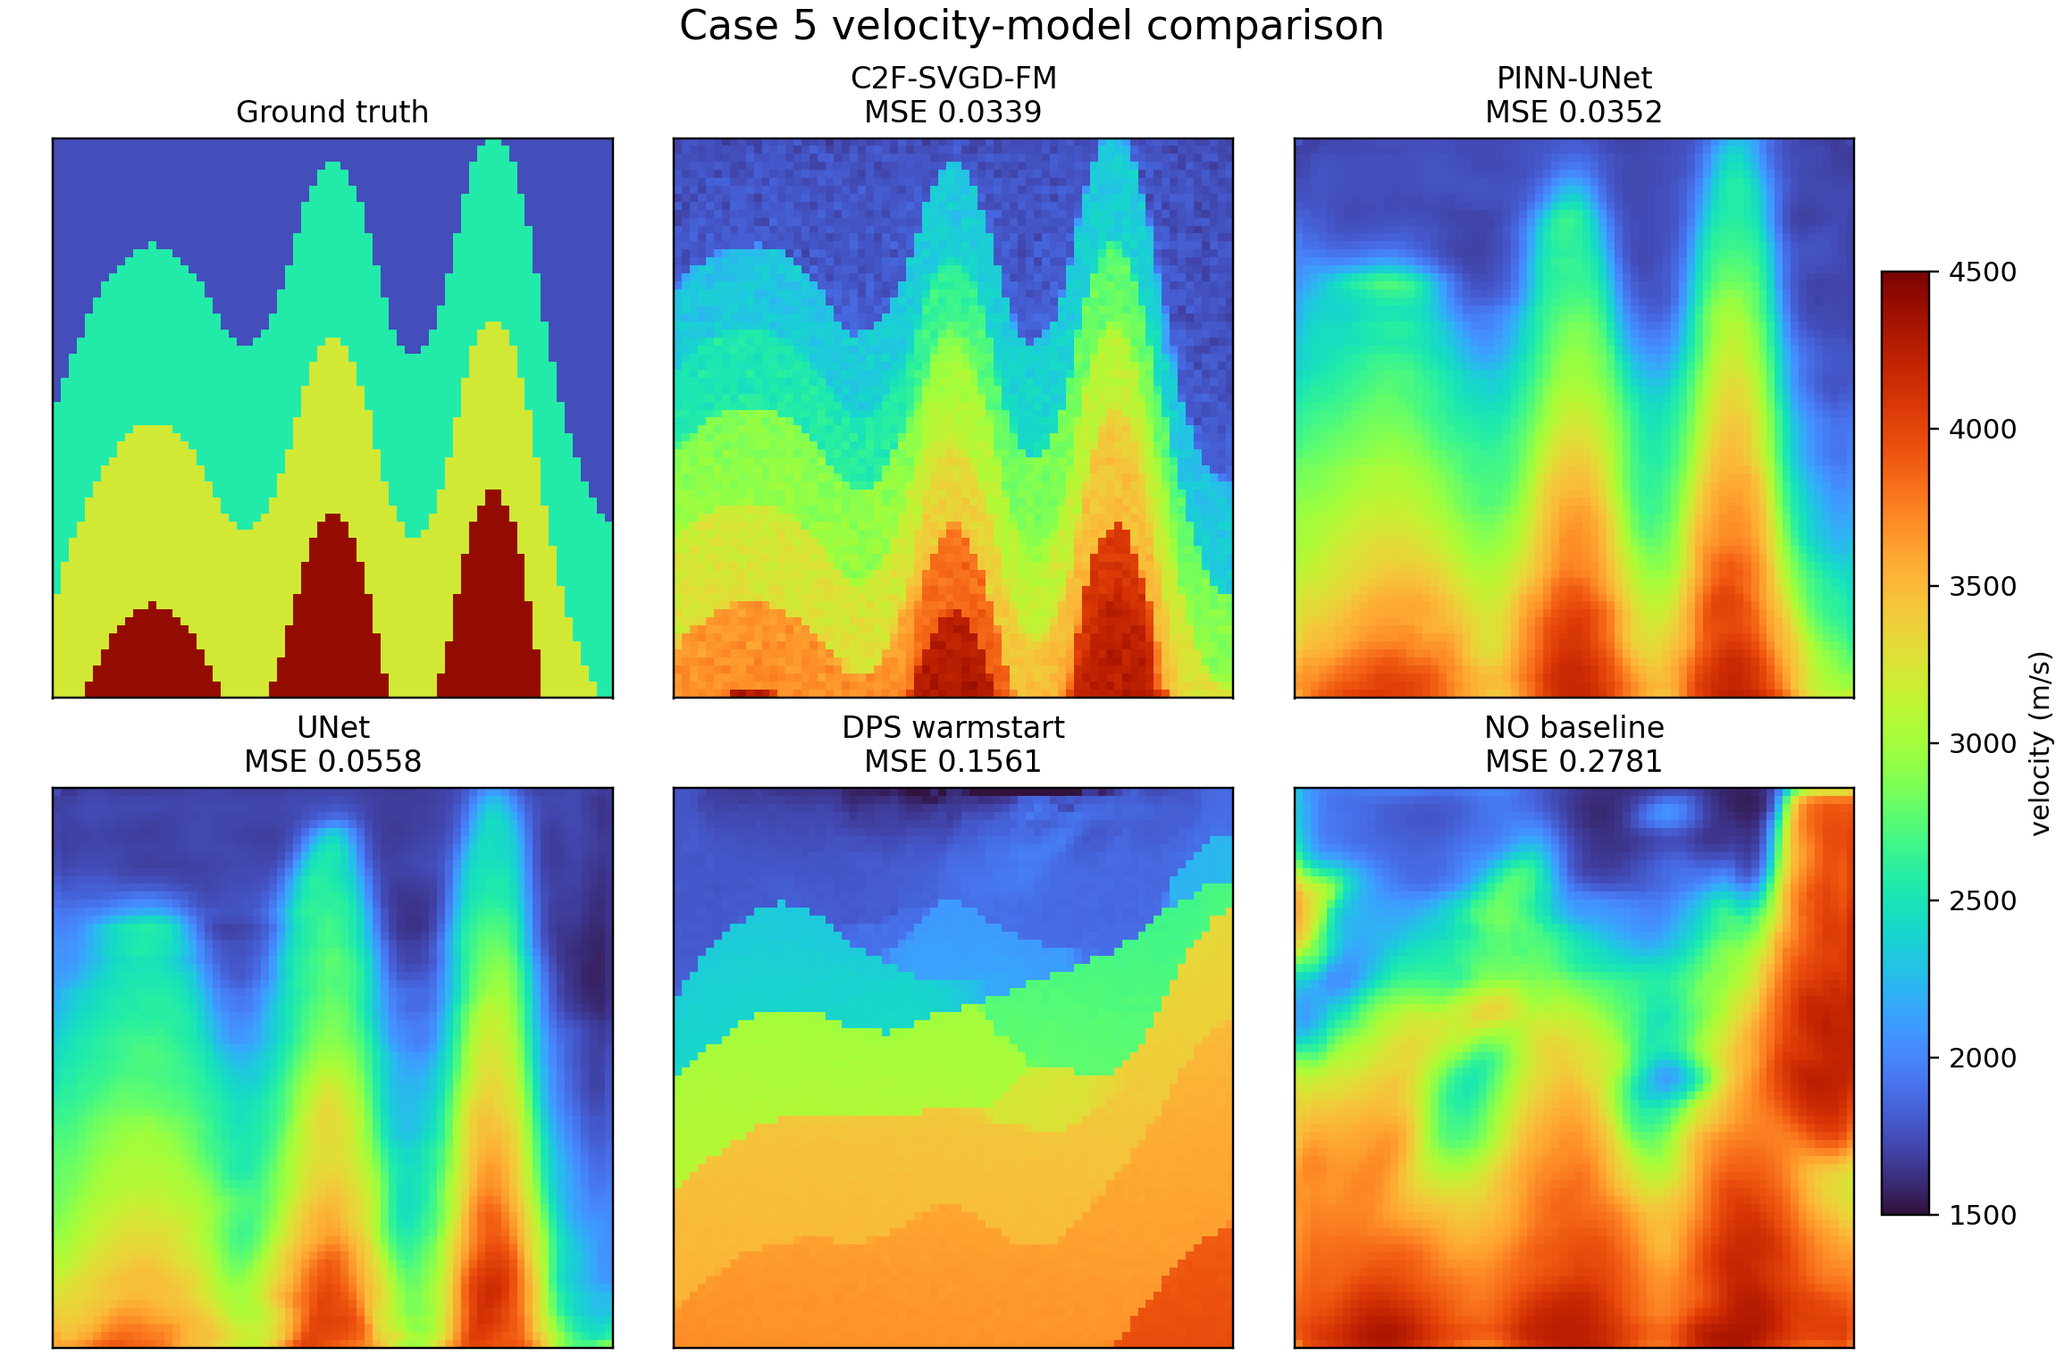
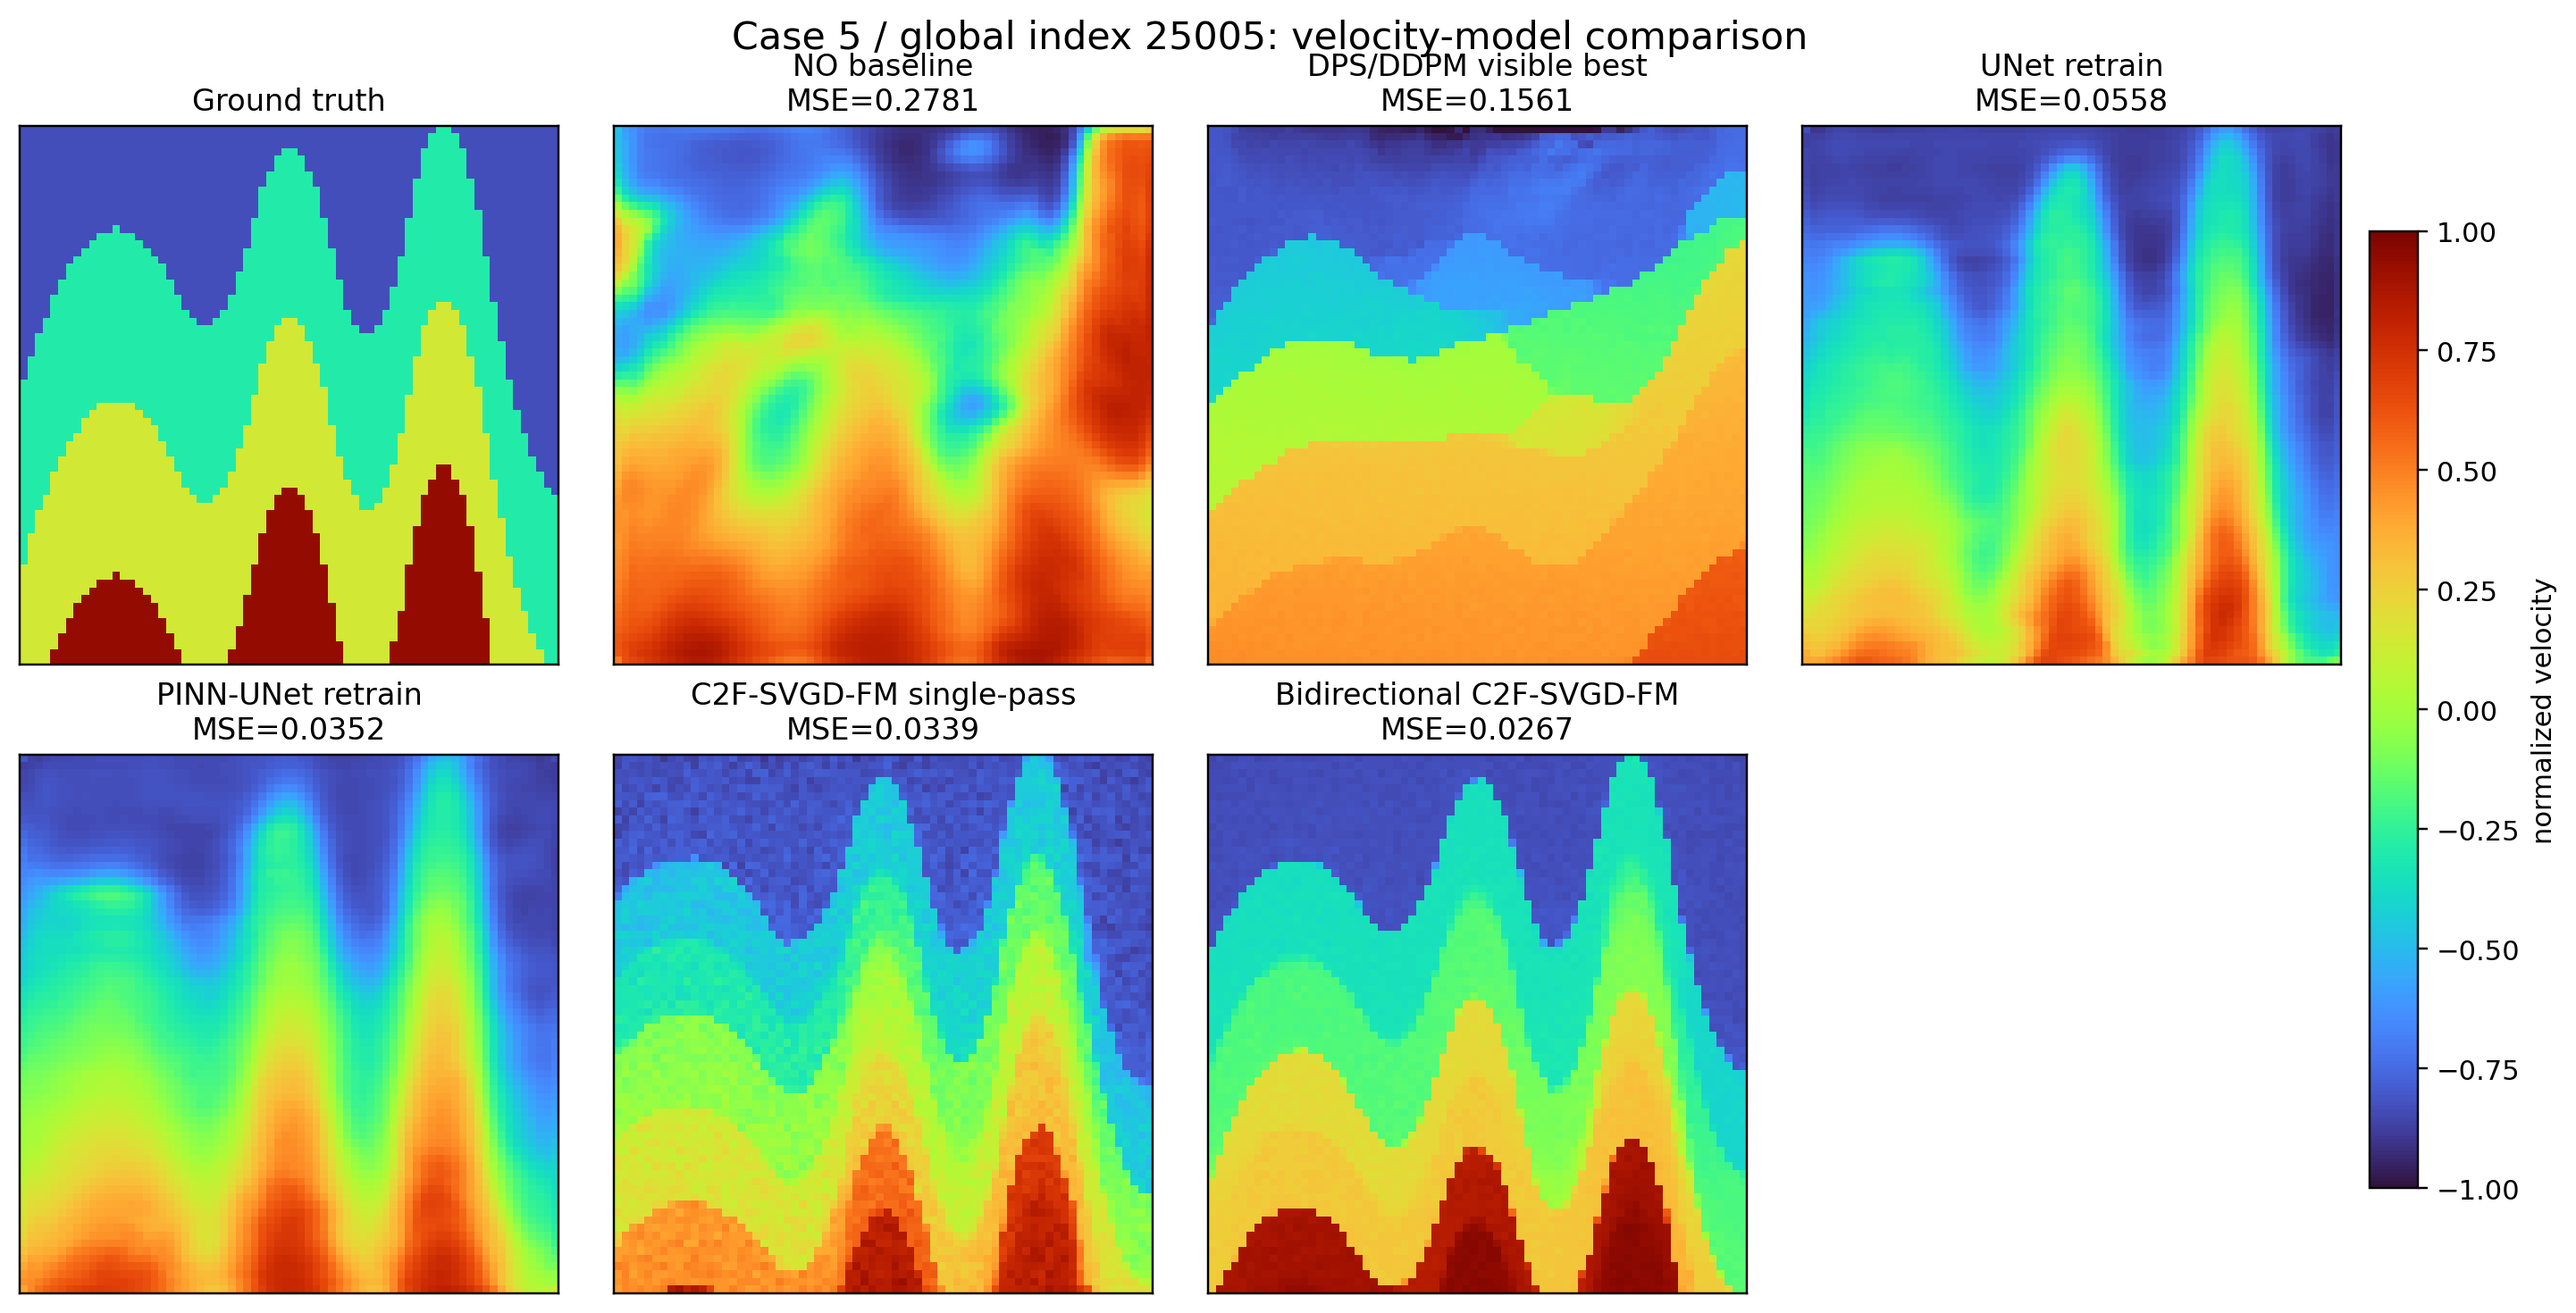
Add bidirectional C2F-SVGD-FM case5 result

diff --git a/scripts/summarize_case5.py b/scripts/summarize_case5.py
@@ -20,21 +20,31 @@ RESULTS = ROOT / "results"
 def main() -> None:
     FIGURES.mkdir(exist_ok=True)
     res = json.loads((RESULTS / "case5_curated_results.json").read_text())
-    labels = ["NO", "DPS\nwarmstart", "FlowMap\ncase-5 best"]
+    labels = [
+        "NO",
+        "DPS\nwarmstart",
+        "UNet",
+        "PINN-UNet",
+        "C2F-SVGD-FM\nsingle-pass",
+        "Bidirectional\nC2F-SVGD-FM",
+    ]
     vals = [
         res["no_mse_from_dps_log"],
         res["dps_best_visible"]["mse"],
+        res["unet_retrain_mse"],
+        res["pinn_unet_retrain_mse"],
+        res["single_pass_c2f_svgd_fm"]["mse"],
         res["main_best"]["mse"],
     ]
-    colors = ["#d65f5f", "#e6a23c", "#2d6cdf"]
+    colors = ["#d65f5f", "#e6a23c", "#8a8f98", "#6d7fb3", "#4b8fe2", "#1f5fbf"]
 
-    fig, ax = plt.subplots(figsize=(6.4, 4.2))
+    fig, ax = plt.subplots(figsize=(9.0, 4.2))
     bars = ax.bar(labels, vals, color=colors, width=0.62)
     ax.set_ylabel("relative MSE")
     ax.set_title("Hard case i=5 / g=25005")
     ax.grid(axis="y", alpha=0.25)
     for bar, val in zip(bars, vals):
-        ax.text(bar.get_x() + bar.get_width() / 2, val + 0.008, f"{val:.4f}", ha="center")
+        ax.text(bar.get_x() + bar.get_width() / 2, val + 0.006, f"{val:.4f}", ha="center")
     ax.set_ylim(0, max(vals) * 1.22)
     fig.tight_layout()
     fig.savefig(FIGURES / "case5_mse_bar.png", dpi=180)

diff --git a/README.md b/README.md
@@ -25,6 +25,14 @@ raw-noise proposal bank
 -> final blind select
 ```
 
+The strongest variant in this repository adds a small **bidirectional re-noising extension** after the single-pass C2F trajectory:
+
+```text
+blind-select clean FlowMap elites
+-> re-noise them back to an informative FlowMap time
+-> resume gated C2F-SVGD-FM assimilation
+```
+
 The learned FlowMap is used as an unconditional prior. The measurement enters only through FWI forward modeling, multiscale seismic scoring, and particle updates. The method does not use Neural Operator or UNet initialization, and it does not train a learned inverse corrector on the observed data.
 
 ## Motivation
@@ -38,13 +46,15 @@ C2F-SVGD-FM keeps the generative-prior advantage while making the inverse update
 1. **Proposal diversity:** start from a raw-noise FlowMap proposal bank and keep multiple basin candidates.
 2. **Coarse-to-fine seismic ranking:** use multiscale observation consistency, not ground-truth velocity, to choose useful particles.
 3. **Particle transport in FlowMap time:** move the same particles along the FlowMap trajectory and update them with differentiable FWI gradients, SVGD diversity, and conservative accept/reject gates.
+4. **Bidirectional basin escape:** optionally select promising clean candidates, re-noise them back to a useful FlowMap time, and rerun the gated trajectory update to escape a poor local basin.
 
 ## Case-5 Result
 
-Best case-5 C2F-SVGD-FM result:
+Best case-5 C2F-SVGD-FM results:
 
 ```text
-normalized MSE = 0.033861700
+single-pass normalized MSE = 0.033861700
+bidirectional extension normalized MSE = 0.026665602
 initialization = pure raw noise
 selection = blind seismic score only
 ```
@@ -57,7 +67,8 @@ This is lower than the supervised UNet and PINN-UNet baselines on the same case.
 | DPS / DDPM best visible | 0.1561 | best visible DPS diagnostic baseline |
 | UNet retrain | 0.0558 | supervised amortized inverse map |
 | PINN-UNet retrain | 0.0352 | supervised inverse map with physics loss |
-| C2F-SVGD-FM | **0.0339** | pure-noise FlowMap proposal bank + multi-time SVGD assimilation |
+| C2F-SVGD-FM | 0.0339 | pure-noise FlowMap proposal bank + single-pass multi-time SVGD assimilation |
+| Bidirectional C2F-SVGD-FM | **0.0267** | clean elite blind-select + re-noise to FlowMap time + resumed gated SVGD assimilation |
 
 ## Figures
 
@@ -77,6 +88,8 @@ Main C2F-SVGD-FM entry point:
 src/c2f_svgd_fm_case5.py
 scripts/run_flowmap_case5.sh
 ```
+
+The launcher is set to the bidirectional extension. For the single-pass C2F-SVGD-FM route, set `--svgd_bidir_rounds 0`.
 
 Baseline and data-generation code:
 
@@ -132,3 +145,5 @@ scripts/
 ## Short Takeaway
 
 For this hard FWI case, single-shot inverse solvers can be unstable because the seismic objective is multimodal. C2F-SVGD-FM keeps multiple raw-noise FlowMap basin candidates alive, transports them through FlowMap time, and uses differentiable FWI guidance plus gated SVGD updates to select a better geological basin.
+
+The bidirectional extension is a basin-escape step rather than a new initializer: it still starts from pure raw noise, but after one clean look-ahead it re-enters the FlowMap trajectory at an informative intermediate time and lets the same blind, gated C2F machinery refine again.
